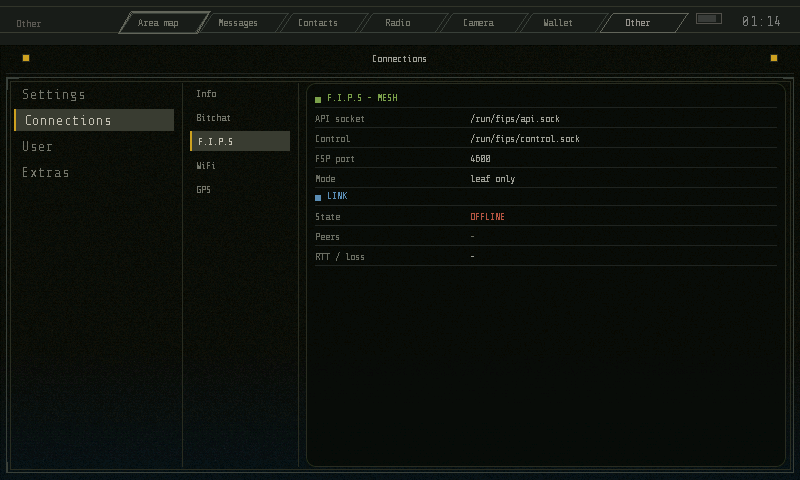
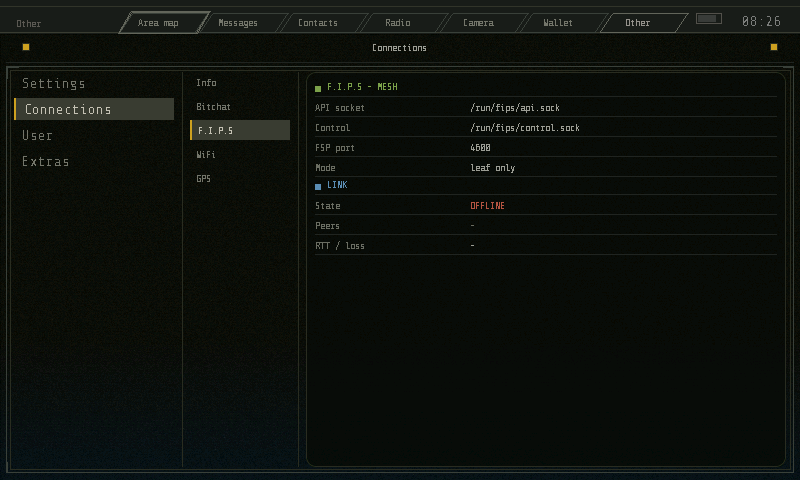
v0.2.2-alpha: the route is thicker, the waypoints are remembered
Six small things:

1. **the route is four pixels wide and light blue** (a new colour,
   PDA_ROUTE = 0x8CD8F5) - the old line was two pixels of accent amber and
   it got lost in the imagery.
2. **the traders are more saturated** (0x86A4B4 -> 0x2FA8C8): the pale
   blue was hard to see on a grey background.
3. **the waypoints are remembered**: they are in the settings file
   ("waypoints = lon,lat;lon,lat") and come back with the app. The settings
   store needed a longer value for that (512 bytes) and a longer line to
   read it back.
4. **a CLEAR WAYPOINTS button** on the map, next to the pack name. It is
   only there when there is a route to take away.
5. **the margin under the tab bar is gone** on every tab but the area map.
   It was the 11px gap the default theme puts between the rows of a flex
   layout: the gap is 0 now and the map's header is 11px taller, so the
   map itself did not move. The panels that have a frame (the Other and
   the Messages tab) are 11px taller, so they still end where they did.
6. **the Waypoints layer switches the placed waypoints on and off**, and
   putting a waypoint down turns the layer on. A route that is loaded at
   startup turns it on as well.

The test suite grew the checks for the layer switch and the clear button;
the map layers test knows the new trader colour.

diff --git a/src/ui/pda_shell.c b/src/ui/pda_shell.c
@@ -6,6 +6,7 @@
 #include "ui/i18n.h"
 #include "ui/format.h"
 #include "ui/grit.h"
+#include "ui/lvutil.h"
 #include "assets/fonts/pda_fonts.h"
 #include "gps.h"
 #include "chat/chat.h"
@@ -24,7 +25,11 @@
 
 #define TAB_COUNT   7
 #define HEADER_W    800
-#define HEADER_H    58
+/* the map tab's header: the tab row and the strip of layers under it. It
+   is 11px taller than the tab row alone, because that is where the map
+   used to start (the default theme puts an 11px gap between the rows of a
+   flex layout - the gap is gone now, see show_view). */
+#define HEADER_H    69
 /* the header is only as tall as it has to be: the map tab has the layer
    strip under the tabs, the other tabs have nothing there */
 #define HEADER_H_TABS 34
@@ -138,6 +143,7 @@ typedef struct {
     double wp_lon[MAX_WAYPOINTS];
     double wp_lat[MAX_WAYPOINTS];
     int wp_count;
+    lv_obj_t * wp_clear_btn;       /* takes the whole route away */
     lv_timer_t * gps_timer;
     map_pack_t packs[MAX_PACKS];
     int n_packs;
@@ -255,6 +261,8 @@ static void draw_parallelogram(int ox, int oy, int w, int h, int slant,
 
 static void apply_layers(shell_t * sh);   /* the markers of a layer */
 static void route_reached(shell_t * sh);  /* a waypoint that is reached goes away */
+static void waypoints_save(shell_t * sh); /* the waypoints in the settings file */
+static void waypoints_load(shell_t * sh); /* and back again */
 
 static void redraw_header(void)
 {
@@ -1069,15 +1077,17 @@ static void draw_poi_layer(shell_t * sh, int zn)
 
 /* ---------- the route (the user's own waypoints) ---------- */
 
-/* a line on the map, two pixels wide so it reads over the imagery */
+/* a line on the map, four pixels wide so it reads over the imagery */
 static void draw_line(shell_t * sh, int x0, int y0, int x1, int y1, uint16_t col)
 {
     int dx = abs(x1 - x0), sx = x0 < x1 ? 1 : -1;
     int dy = -abs(y1 - y0), sy = y0 < y1 ? 1 : -1;
     int err = dx + dy;
     for(int guard = 0; guard < 4096; guard++) {
-        view_px(sh, x0, y0, col);
-        view_px(sh, x0, y0 + 1, col);
+        for(int k = 0; k < 4; k++) {
+            view_px(sh, x0, y0 + k, col);
+            view_px(sh, x0 + 1, y0 + k, col);
+        }
         if(x0 == x1 && y0 == y1) break;
         int e2 = 2 * err;
         if(e2 >= dy) { err += dy; x0 += sx; }
@@ -1118,12 +1128,14 @@ static void geo_to_screen(shell_t * sh, int zn, double lon, double lat, int * x,
 }
 
 /* the route: the player, then the waypoints in the order they were put
-   down, each with a line to the one before it */
+   down, each with a line to the one before it. The Waypoints layer switches
+   the whole route on and off. */
 static void draw_route(shell_t * sh, int zn)
 {
     if(sh->wp_count <= 0) return;
+    if(!sh->sub_on[4]) return;          /* the Waypoints layer is off */
 
-    uint16_t line_col = rgb565_of(PDA_MSG_ACCENT);
+    uint16_t line_col = rgb565_of(PDA_ROUTE);
     uint16_t pin_col = rgb565_of(PDA_MAP_WAYPOINT);
 
     int px, py;
@@ -1140,6 +1152,42 @@ static void draw_route(shell_t * sh, int zn)
         geo_to_screen(sh, zn, sh->wp_lon[i], sh->wp_lat[i], &wx, &wy);
         draw_waypoint_pin(sh, wx, wy, pin_col);
     }
+}
+
+/* the waypoints are remembered: they are in the settings file */
+static void waypoints_save(shell_t * sh)
+{
+    char buf[512];
+    size_t o = 0;
+    for(int i = 0; i < sh->wp_count && o + 32 < sizeof(buf); i++) {
+        int n = snprintf(buf + o, sizeof(buf) - o, "%s%.6f,%.6f", i ? ";" : "",
+                         sh->wp_lon[i], sh->wp_lat[i]);
+        if(n < 0) break;
+        o += n;
+    }
+    buf[o] = 0;
+    prefs_set_str("waypoints", buf);
+}
+
+static void waypoints_load(shell_t * sh)
+{
+    const char * s = prefs_str("waypoints", "");
+    sh->wp_count = 0;
+    while(*s && sh->wp_count < MAX_WAYPOINTS) {
+        char * end = NULL;
+        double lon = strtod(s, &end);
+        if(end == s || *end != ',') break;
+        s = end + 1;
+        double lat = strtod(s, &end);
+        if(end == s) break;
+        s = end;
+        if(*s == ';') s++;
+        sh->wp_lon[sh->wp_count] = lon;
+        sh->wp_lat[sh->wp_count] = lat;
+        sh->wp_count++;
+    }
+    /* a route that is there has to be seen */
+    if(sh->wp_count > 0) sh->sub_on[4] = true;
 }
 
 /* the distance between two places, in metres */
@@ -1166,6 +1214,8 @@ static void route_reached(shell_t * sh)
         sh->wp_lat[j] = sh->wp_lat[j + 1];
     }
     sh->wp_count--;
+    waypoints_save(sh);
+    if(sh->wp_clear_btn) lv_obj_set_hidden(sh->wp_clear_btn, sh->wp_count == 0);
 }
 
 /* ---------- rendering ---------- */
@@ -1446,6 +1496,8 @@ void pda_shell_right_click(int x, int y)
             sh->wp_lat[j] = sh->wp_lat[j + 1];
         }
         sh->wp_count--;
+        waypoints_save(sh);
+        if(sh->wp_clear_btn) lv_obj_set_hidden(sh->wp_clear_btn, sh->wp_count == 0);
         map_update(sh);
         return;
     }
@@ -1455,6 +1507,25 @@ void pda_shell_right_click(int x, int y)
     sh->wp_lon[sh->wp_count] = geo_lon_from_w(wc + (ax - 400) / zscale);
     sh->wp_lat[sh->wp_count] = geo_lat_from_w(wct + (ay - 205) / zscale);
     sh->wp_count++;
+    /* the waypoints have to be seen, so their layer goes on */
+    if(!sh->sub_on[4]) {
+        sh->sub_on[4] = true;
+        redraw_header();
+        restyle_labels();
+    }
+    waypoints_save(sh);
+    if(sh->wp_clear_btn) lv_obj_set_hidden(sh->wp_clear_btn, false);
+    map_update(sh);
+}
+
+/* the button that takes the whole route away */
+static void on_clear_waypoints(lv_event_t * e)
+{
+    LV_UNUSED(e);
+    shell_t * sh = &g_sh;
+    sh->wp_count = 0;
+    waypoints_save(sh);
+    if(sh->wp_clear_btn) lv_obj_set_hidden(sh->wp_clear_btn, true);
     map_update(sh);
 }
 
@@ -1691,6 +1762,27 @@ static void build_map(shell_t * sh, lv_obj_t * parent)
     lv_obj_set_style_text_font(sh->pack_lbl, &pda_font_mono_10, LV_PART_MAIN);
     lv_obj_set_style_text_color(sh->pack_lbl, lv_color_hex(PDA_SUB_DOT_OFF), LV_PART_MAIN);
 
+    /* the button that takes the whole route away */
+    lv_obj_t * clear = lv_button_create(overlay);
+    lv_obj_set_pos(clear, 8, 20);
+    lv_obj_set_size(clear, 104, 17);
+    lv_obj_set_style_bg_color(clear, lv_color_hex(PDA_CHAT_EDGE), LV_PART_MAIN);
+    lv_obj_set_style_bg_opa(clear, LV_OPA_COVER, LV_PART_MAIN);
+    lv_obj_set_style_border_width(clear, 1, LV_PART_MAIN);
+    lv_obj_set_style_border_color(clear, lv_color_hex(PDA_MSG_ACCENT), LV_PART_MAIN);
+    lv_obj_set_style_radius(clear, 0, LV_PART_MAIN);
+    lv_obj_set_style_pad_all(clear, 0, LV_PART_MAIN);
+    lv_no_transition(clear);
+    lv_obj_t * clear_lbl = lv_label_create(clear);
+    lv_label_set_text(clear_lbl, "CLEAR WAYPOINTS");
+    lv_obj_set_style_text_font(clear_lbl, &pda_font_mono_10, LV_PART_MAIN);
+    lv_obj_set_style_text_color(clear_lbl, lv_color_hex(PDA_MSG_ACCENT), LV_PART_MAIN);
+    lv_obj_center(clear_lbl);
+    lv_obj_add_event_cb(clear, on_clear_waypoints, LV_EVENT_CLICKED, NULL);
+    /* the button is only there when there is a route to take away */
+    lv_obj_set_hidden(clear, sh->wp_count == 0);
+    sh->wp_clear_btn = clear;
+
     /* the card of a merchant: it opens when one is tapped */
     lv_obj_t * card = lv_obj_create(overlay);
     lv_obj_set_pos(card, 8, MAP_VIEW_H - 62);
@@ -1774,6 +1866,7 @@ lv_obj_t * pda_shell_create(lv_obj_t * parent, lv_group_t * group)
 
     prefs_init();      /* the saved settings, before anything reads them */
     chat_init();
+    waypoints_load(sh);   /* the route the user planned last time */
 
     /* the settings that change how everything looks and reads */
     pda_theme_load();
@@ -1787,6 +1880,9 @@ lv_obj_t * pda_shell_create(lv_obj_t * parent, lv_group_t * group)
     lv_obj_set_style_bg_opa(parent, LV_OPA_COVER, LV_PART_MAIN);
     lv_obj_set_style_text_font(parent, &pda_font_mono_14, LV_PART_MAIN);
     lv_obj_set_style_pad_all(parent, 0, LV_PART_MAIN);
+    /* the default theme leaves an 11px gap between the rows of a flex
+       layout - the panel has to start right under the tab bar */
+    lv_obj_set_style_pad_row(parent, 0, LV_PART_MAIN);
     lv_obj_set_flex_flow(parent, LV_FLEX_FLOW_COLUMN);
     lv_obj_set_scrollbar_mode(parent, LV_SCROLLBAR_MODE_OFF);
     lv_obj_set_scroll_dir(parent, LV_DIR_NONE);

diff --git a/src/ui/palette.c b/src/ui/palette.c
@@ -46,8 +46,9 @@ static const scheme_t s_wasteland = {
         /* PDA_C_MAP_AREA */          0xFFFFFF,
         /* PDA_C_MAP_STASH */         0xFFD32A,
         /* PDA_C_MAP_IMPORTANT */     0xF39C12,
-        /* PDA_C_MAP_TRADER */        0x86A4B4,
+        /* PDA_C_MAP_TRADER */        0x2FA8C8,
         /* PDA_C_MAP_WAYPOINT */      0xE8453C,
+        /* PDA_C_ROUTE */             0x8CD8F5,
         /* PDA_C_MAP_ME */            0x3FA9F5,
         /* PDA_C_CHAT_BG */           0x191B16,
         /* PDA_C_CHAT_STRIP */        0x12130F,
@@ -107,8 +108,9 @@ static const scheme_t s_ash = {
         /* PDA_C_MAP_AREA */          0xFFFFFF,
         /* PDA_C_MAP_STASH */         0xFFD32A,
         /* PDA_C_MAP_IMPORTANT */     0xF39C12,
-        /* PDA_C_MAP_TRADER */        0x86A4B4,
+        /* PDA_C_MAP_TRADER */        0x2FA8C8,
         /* PDA_C_MAP_WAYPOINT */      0xE8453C,
+        /* PDA_C_ROUTE */             0x8CD8F5,
         /* PDA_C_MAP_ME */            0x3FA9F5,
         /* PDA_C_CHAT_BG */           0x161A1E,
         /* PDA_C_CHAT_STRIP */        0x101315,
@@ -168,8 +170,9 @@ static const scheme_t s_rust = {
         /* PDA_C_MAP_AREA */          0xFFFFFF,
         /* PDA_C_MAP_STASH */         0xFFD32A,
         /* PDA_C_MAP_IMPORTANT */     0xF39C12,
-        /* PDA_C_MAP_TRADER */        0x86A4B4,
+        /* PDA_C_MAP_TRADER */        0x2FA8C8,
         /* PDA_C_MAP_WAYPOINT */      0xE8453C,
+        /* PDA_C_ROUTE */             0x8CD8F5,
         /* PDA_C_MAP_ME */            0x3FA9F5,
         /* PDA_C_CHAT_BG */           0x1C1815,
         /* PDA_C_CHAT_STRIP */        0x14110F,

diff --git a/tools/ui_test.py b/tools/ui_test.py
@@ -574,7 +574,7 @@ def test_map_layers():
         time.sleep(3.0)
 
         COLOURS = {"area": (255, 255, 255),        # the rings
-                   "trader": (131, 165, 180),     # the bag of coins (BTC Map)
+                   "trader": (40, 168, 200),      # the bag of coins (BTC Map)
                    "stash": (255, 211, 42),       # the yellow squares
                    "waypoint": (243, 156, 18)}    # the orange rings
         LAYER_X = {"trader": 163 + 148, "stash": 163 + 296, "waypoint": 163 + 444}
@@ -673,6 +673,22 @@ def test_waypoints():
         red2 = count(shot("wp_gone"), "red")
         note(red2 <= red0 + 20,
              f"right clicking it again takes it away ({red1} -> {red2})")
+
+        # the Waypoints layer switches the route on and off
+        right_click(300, 200)
+        on = count(shot("wp_layer_on"), "red")
+        click_once(163 + 3 * 148 + 6, 42)     # the Waypoints button
+        off = count(shot("wp_layer_off"), "red")
+        note(on > 40 and off <= 20,
+             f"the Waypoints layer switches the route off ({on} -> {off})")
+        click_once(163 + 3 * 148 + 6, 42)     # and on again
+        back = count(shot("wp_layer_back"), "red")
+        note(back > 40, f"and on again ({back})")
+
+        # the button that takes the whole route away
+        click_once(8 + 50, 89 + 8)
+        cleared = count(shot("wp_cleared"), "red")
+        note(cleared <= 20, f"CLEAR takes the whole route away ({back} -> {cleared})")
     finally:
         stop(p, f)
 

diff --git a/src/ui/palette.h b/src/ui/palette.h
@@ -43,6 +43,7 @@ typedef enum {
     PDA_C_MAP_IMPORTANT,
     PDA_C_MAP_TRADER,
     PDA_C_MAP_WAYPOINT,
+    PDA_C_ROUTE,
     PDA_C_MAP_ME,
     PDA_C_CHAT_BG,
     PDA_C_CHAT_STRIP,
@@ -129,6 +130,7 @@ const char * pda_accent_name(int accent);
 #define PDA_MAP_IMPORTANT       pda_col(PDA_C_MAP_IMPORTANT)
 #define PDA_MAP_TRADER          pda_col(PDA_C_MAP_TRADER)
 #define PDA_MAP_WAYPOINT        pda_col(PDA_C_MAP_WAYPOINT)
+#define PDA_ROUTE               pda_col(PDA_C_ROUTE)
 #define PDA_MAP_ME              pda_col(PDA_C_MAP_ME)
 
 #define PDA_CHAT_BG             pda_col(PDA_C_CHAT_BG)

diff --git a/src/ui/other_ui.c b/src/ui/other_ui.c
@@ -51,7 +51,7 @@
 #define FRAME_X      6
 #define FRAME_Y      32
 #define FRAME_W      788
-#define FRAME_H      396
+#define FRAME_H      407
 #define COL_X        14           /* the first column, inside the frame */
 #define RULE1_X      182
 #define SUB_X        190
@@ -59,7 +59,7 @@
 #define PAGE_X       306
 #define PAGE_Y       38
 #define PAGE_W       480
-#define PAGE_H       384
+#define PAGE_H       395
 #define ROW_H        18
 #define FIELD_W      220
 #define FIELD_H      17

diff --git a/src/ui/prefs.c b/src/ui/prefs.c
@@ -8,7 +8,7 @@
 
 typedef struct {
     char key[32];
-    char value[128];
+    char value[512];      /* the waypoints are a long one */
     bool used;
 } pref_t;
 
@@ -79,7 +79,7 @@ void prefs_load(void)
         s_loaded = true;
         return;
     }
-    char line[256];
+    char line[1024];
     while(fgets(line, sizeof(line), f)) {
         char * eq = strchr(line, '=');
         if(!eq) continue;

diff --git a/src/ui/pda_shell.h b/src/ui/pda_shell.h
@@ -5,7 +5,7 @@
 
 /* which build this is - the app says it when it starts, so a stale process
    is easy to spot */
-#define PDA_VERSION   "v0.2.1-alpha"
+#define PDA_VERSION   "v0.2.2-alpha"
 
 lv_obj_t * pda_shell_create(lv_obj_t * parent, lv_group_t * group);
 

diff --git a/src/ui/chat_ui.c b/src/ui/chat_ui.c
@@ -46,7 +46,7 @@
 #define FRAME_X       6
 #define FRAME_Y       32
 #define FRAME_W       788
-#define FRAME_H       396
+#define FRAME_H       407
 #define BACK_W        800
 #define BACK_H        452
 

diff --git a/README.md b/README.md
@@ -1,6 +1,6 @@
 # S.T.A.L.K.E.R PDA Simulator
 
-**v0.2.1-alpha**
+**v0.2.2-alpha**
 
 A handheld communicator in the spirit of the STALKER PDA: an offline map, a
 group chat that works over the local mesh, the FIPS mesh and the internet,
@@ -35,7 +35,9 @@ on a desktop environment.
   down (a red pin), right click on it again takes it away. A line is drawn
   from where you are to the first waypoint, and from there to the next one.
   When you get within 5 m of the first waypoint it goes away by itself and
-  the next one becomes the goal.
+  the next one becomes the goal. The route is remembered across restarts,
+  the **Waypoints** layer switches it on and off (putting one down turns it
+  on), and **CLEAR WAYPOINTS** takes the whole route away.
 - **The Traders layer is real**: every place that accepts bitcoin on Madeira
   comes from [BTC Map](https://btcmap.org) (the OpenStreetMap `currency:XBT`
   dataset) - 166 shops, cafés, pharmacies and hotels. They are drawn as a
